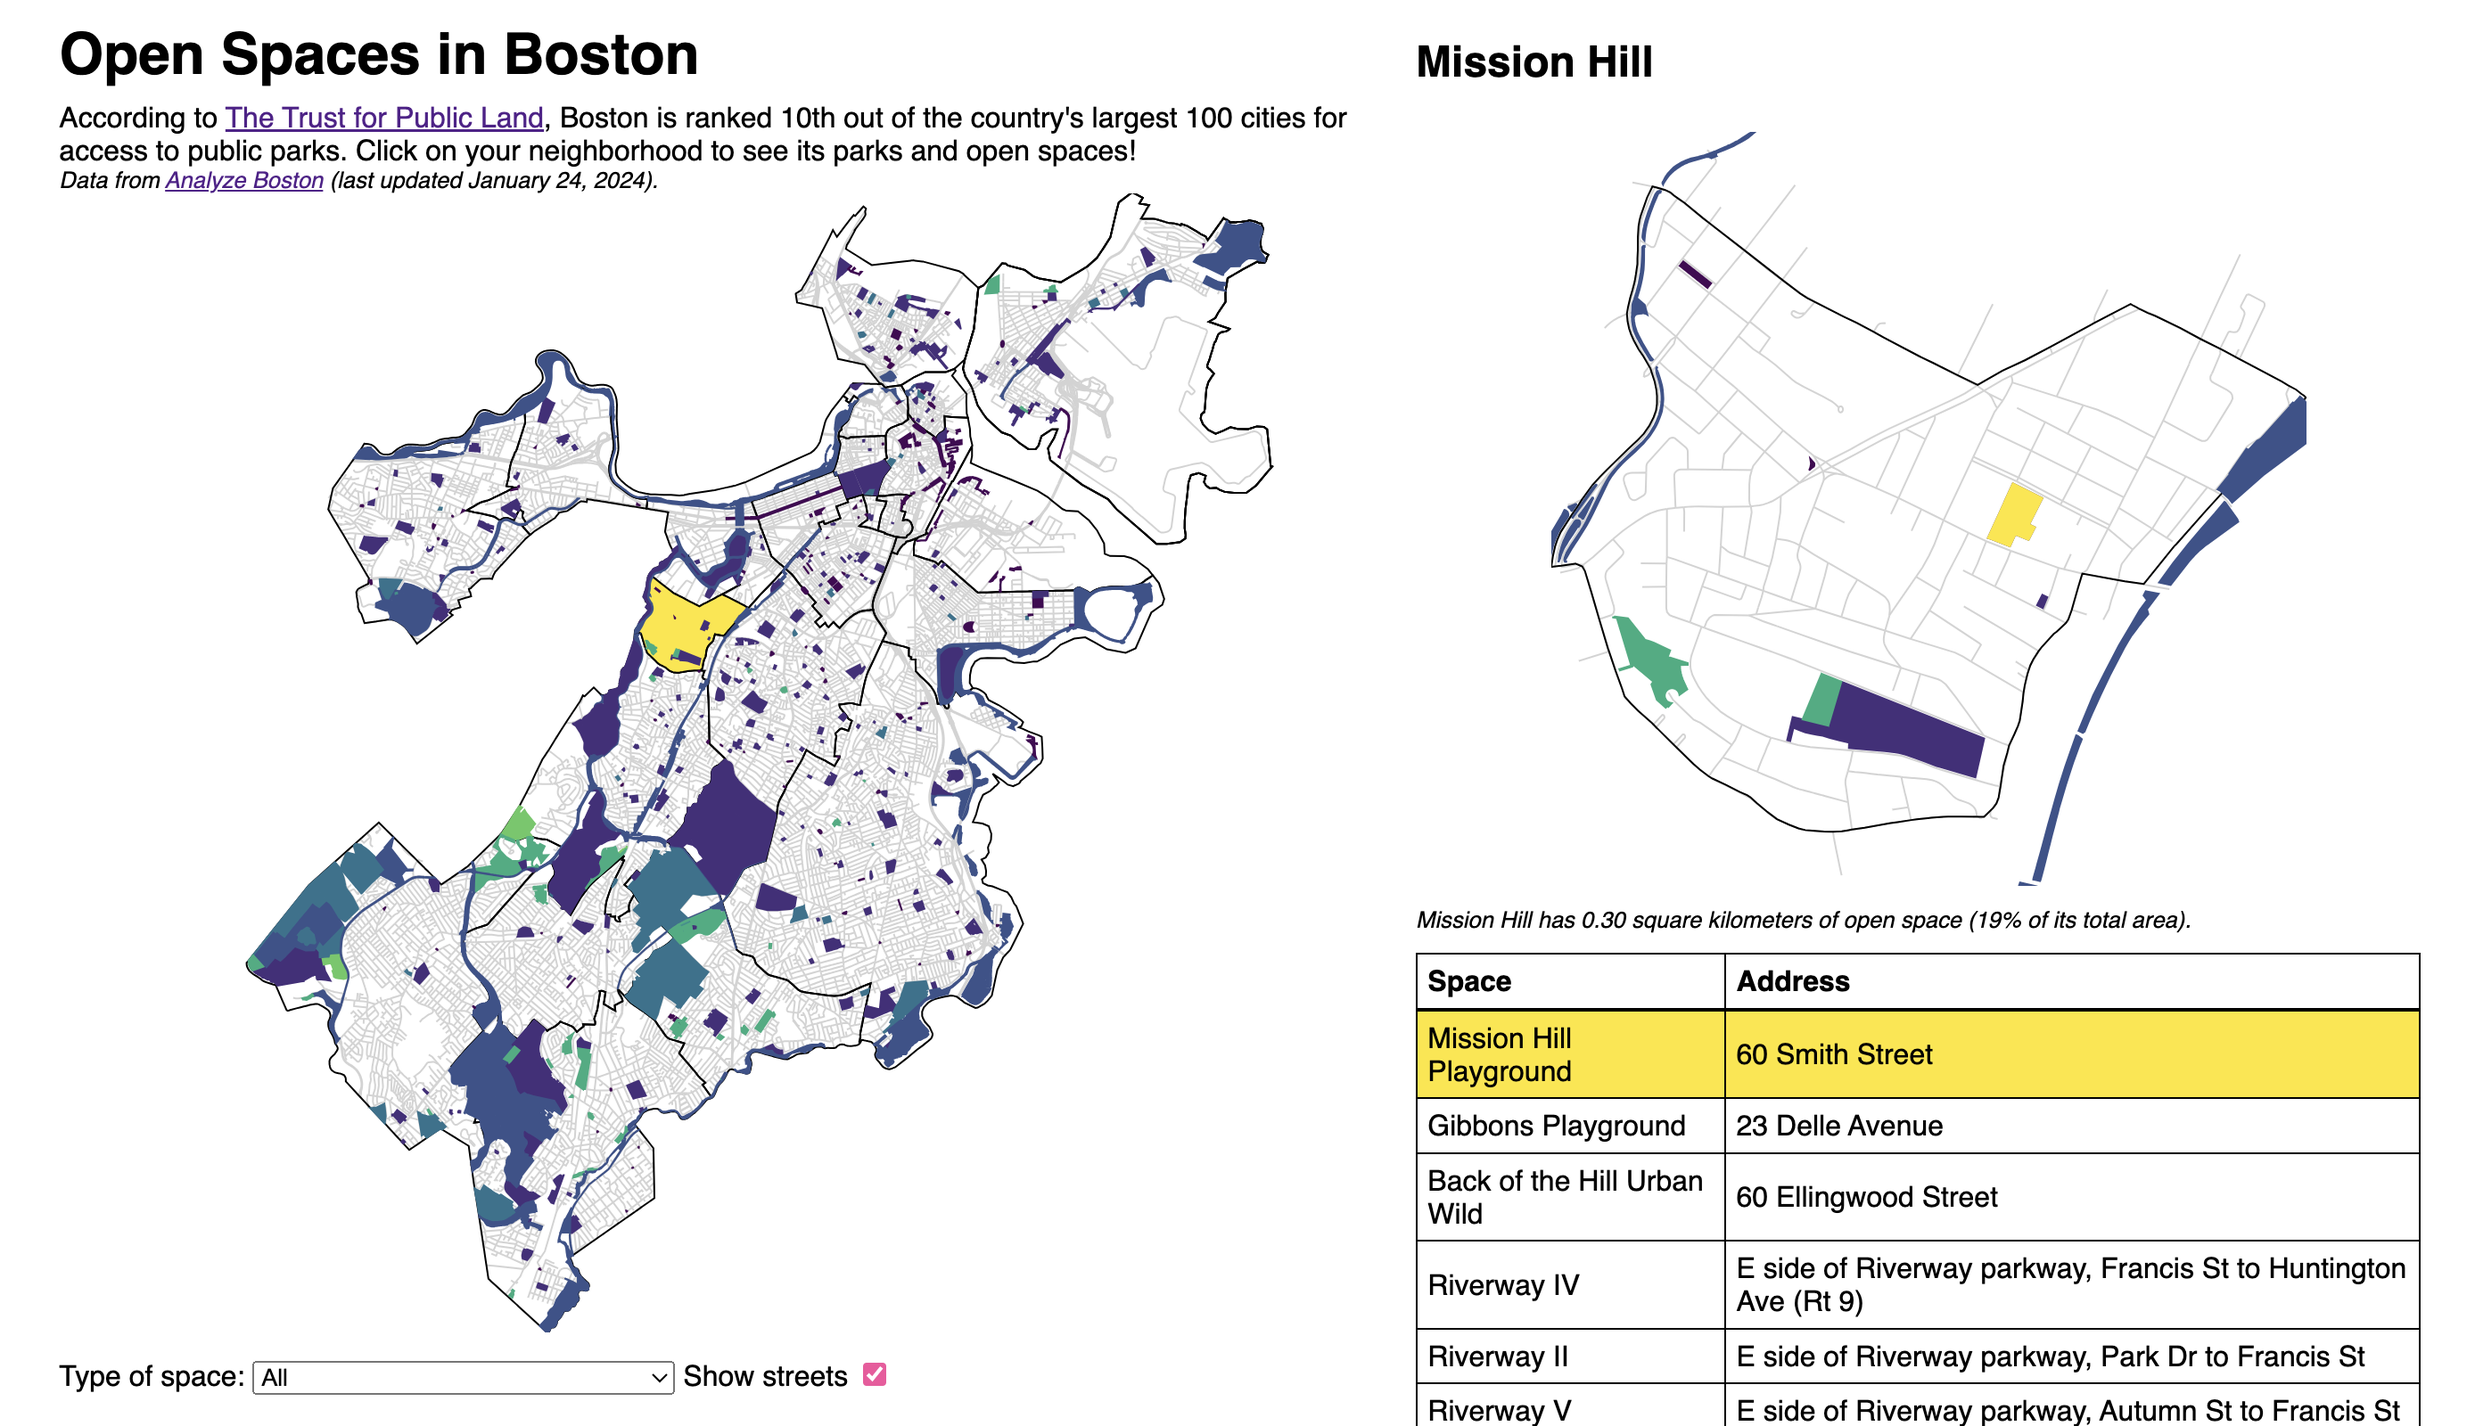
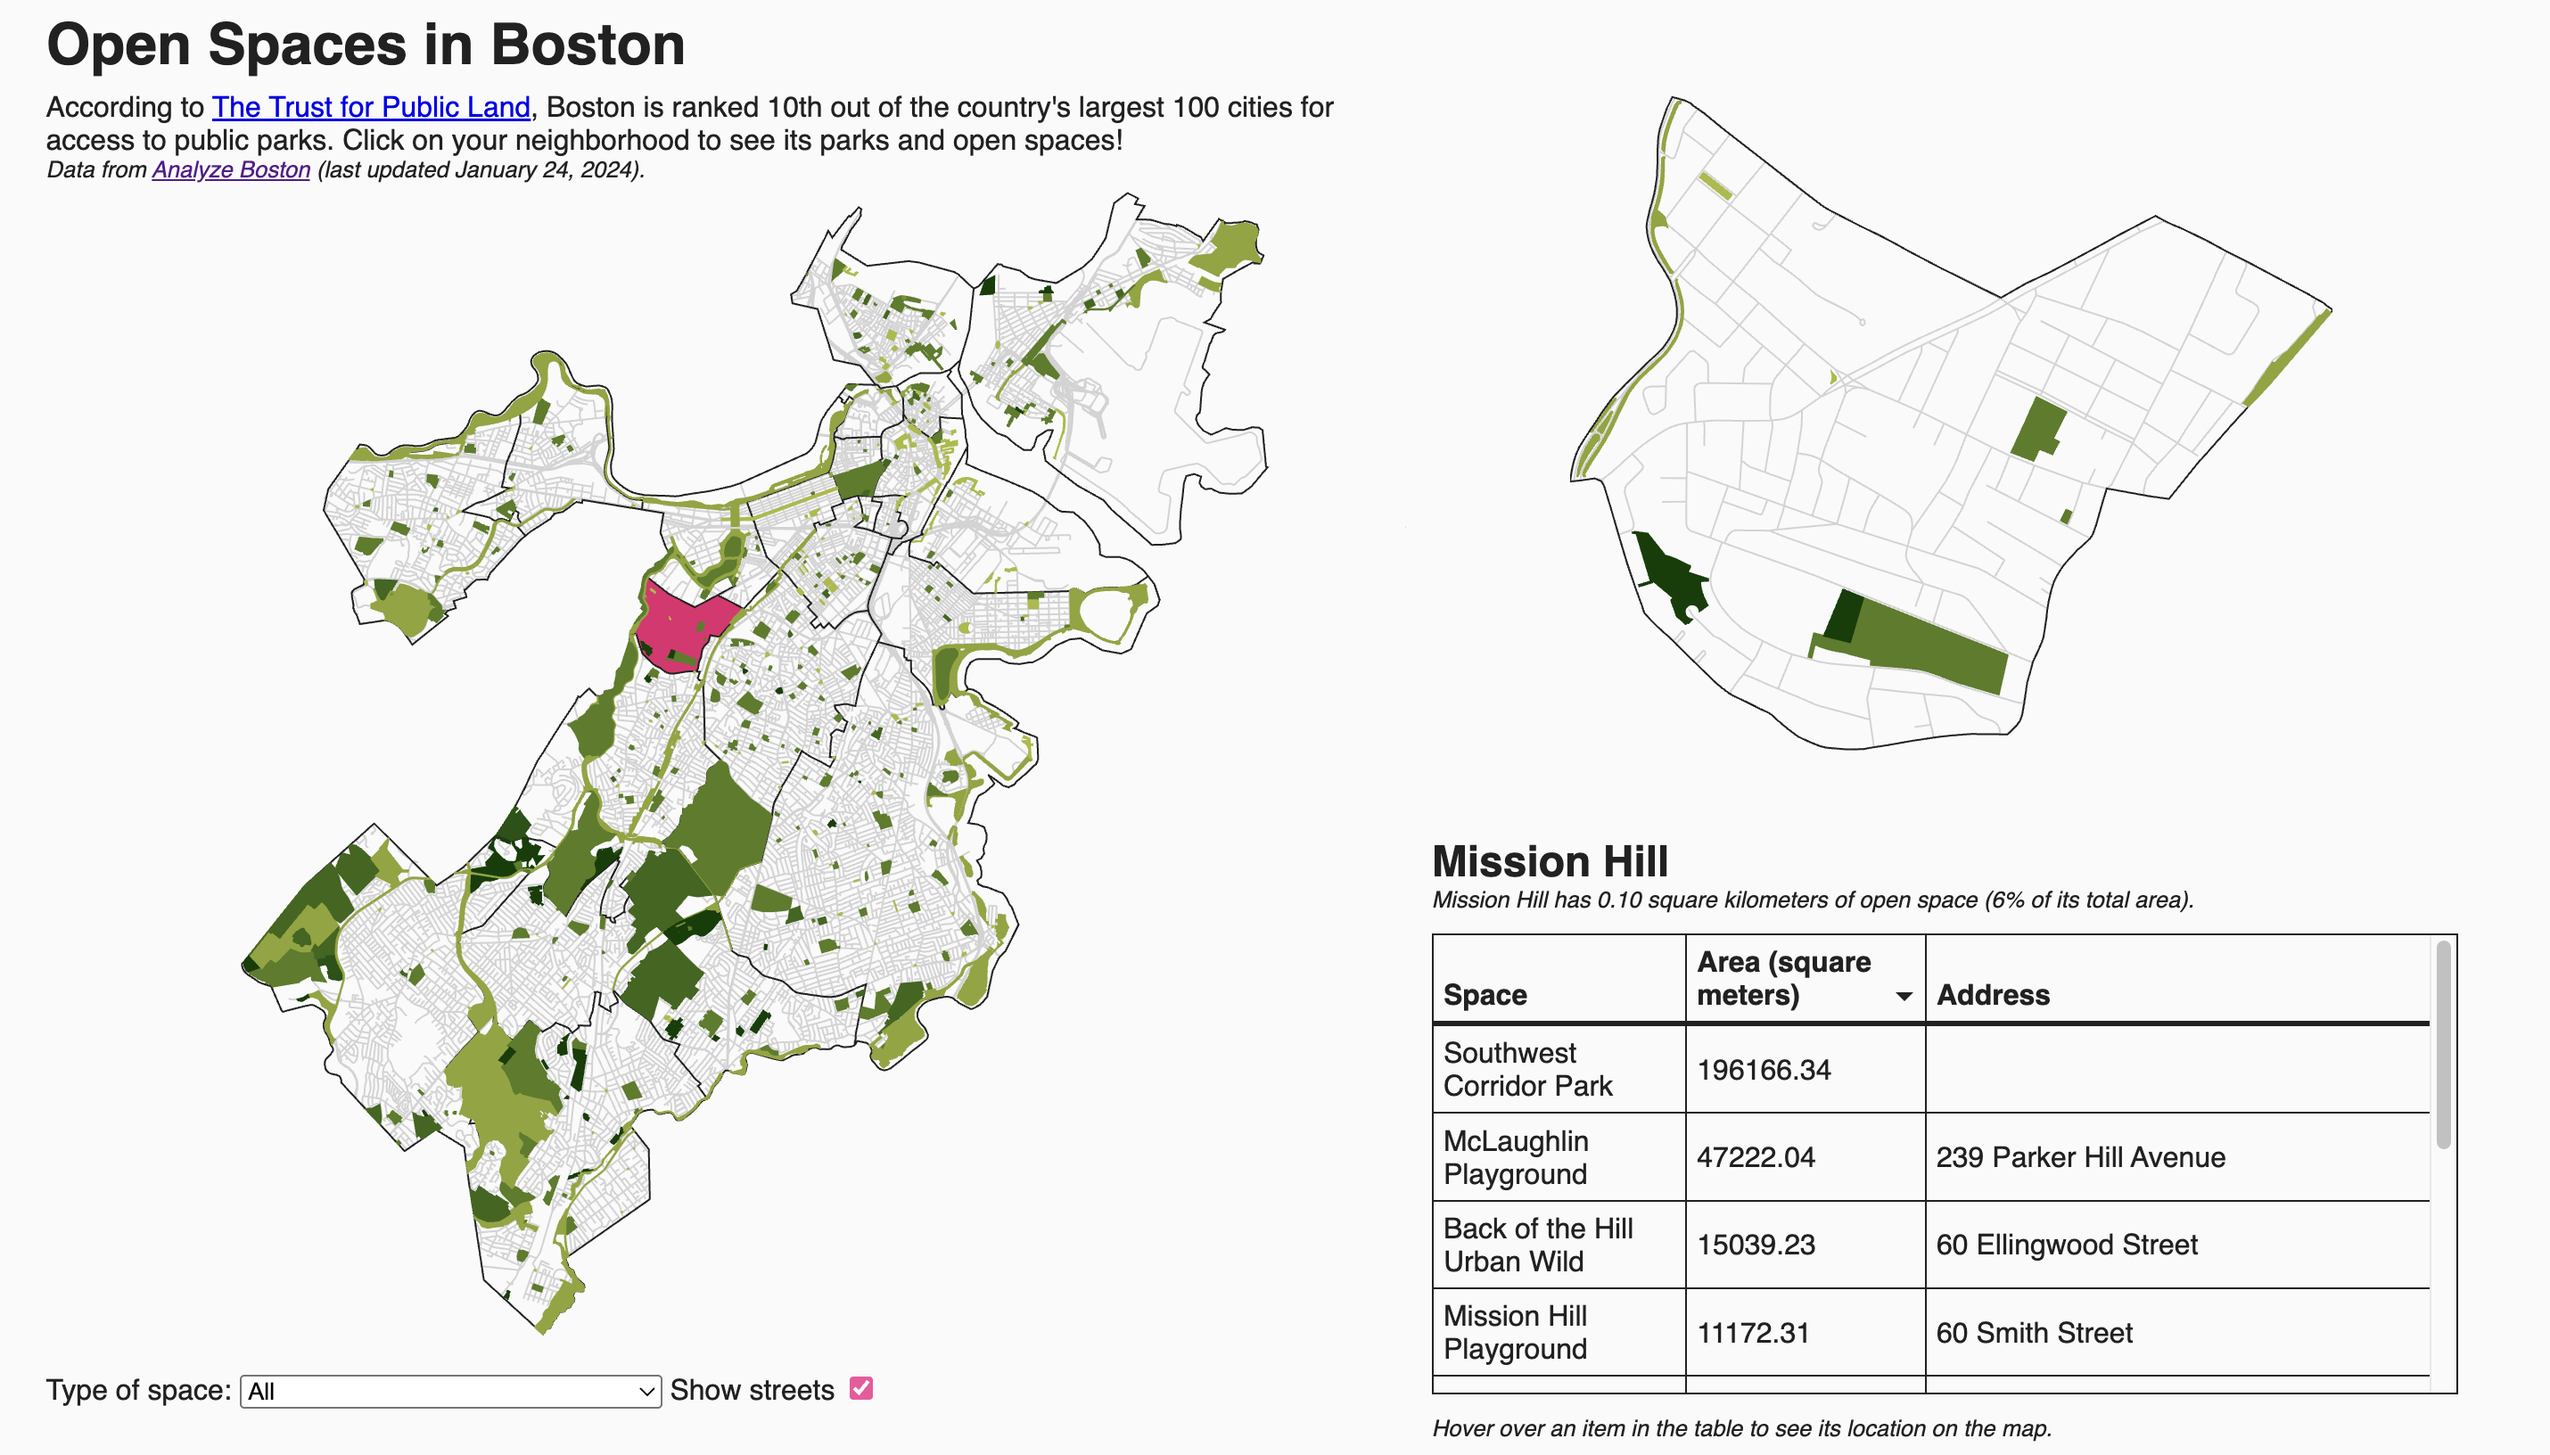
projects

diff --git a/portfolio.html b/portfolio.html
@@ -54,10 +54,15 @@ _blank">researchers attempt to quantify environmental cost of cryptocurrency</a>
         <h2>DATA VISUALIZATION</h2>
 
         <p>
+        <h3><a href="https://katelauro.github.io/espacesvertsmontreal/" target="_blank">montreal open spaces map</a></h3>
+        <i>October 2025</i>
+        <br>Interactive map created using D3 showing open spaces of recreation and interest in Montreal using publicly available data from Données ouvertes Montréal.</p>
+
+        <p>
         <h3><a href="https://katelauro.github.io/bostonopenspaces/" target="_blank">boston open spaces map</a></h3>
         <i>February 2024</i>
         <img src="open spaces img.png" class="portfolioimg">
-        <br>Interactive map created using D3 showing open spaces of recreation and interest in Boston.</p>
+        <br>Interactive map created using D3 showing open spaces of recreation and interest in Boston using publicly available data from Analyze Boston.</p>
 
         <p>
         <h3><a href="https://pages.github.khoury.northeastern.edu/katelauro/ds4200assn3a.github.io/finalvisualization.html"
